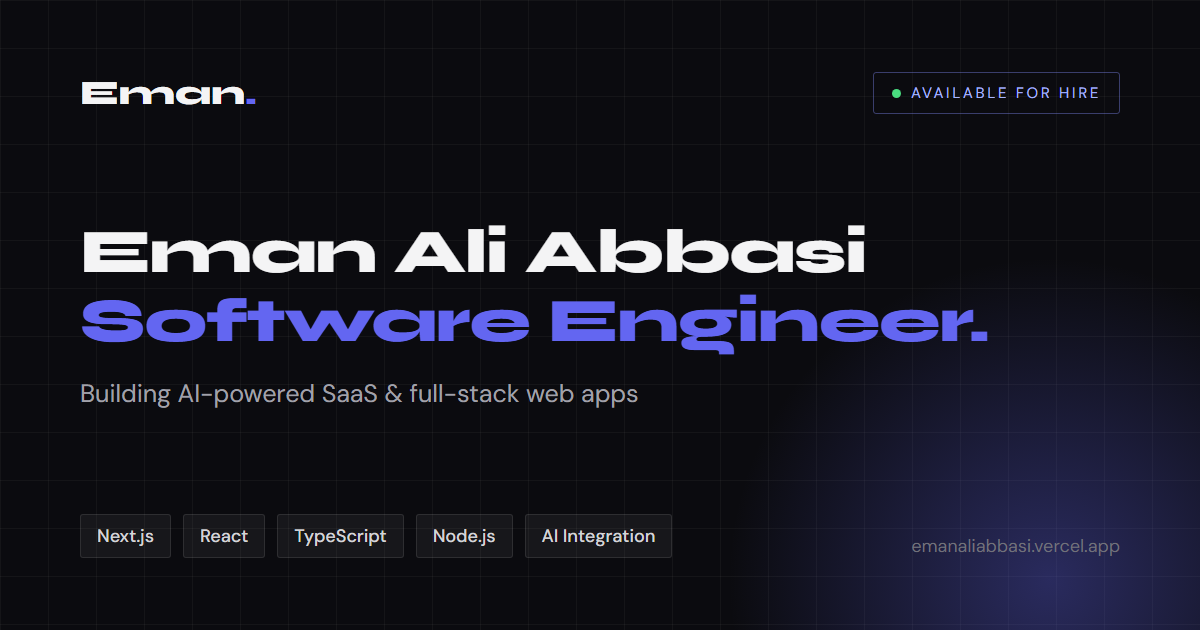
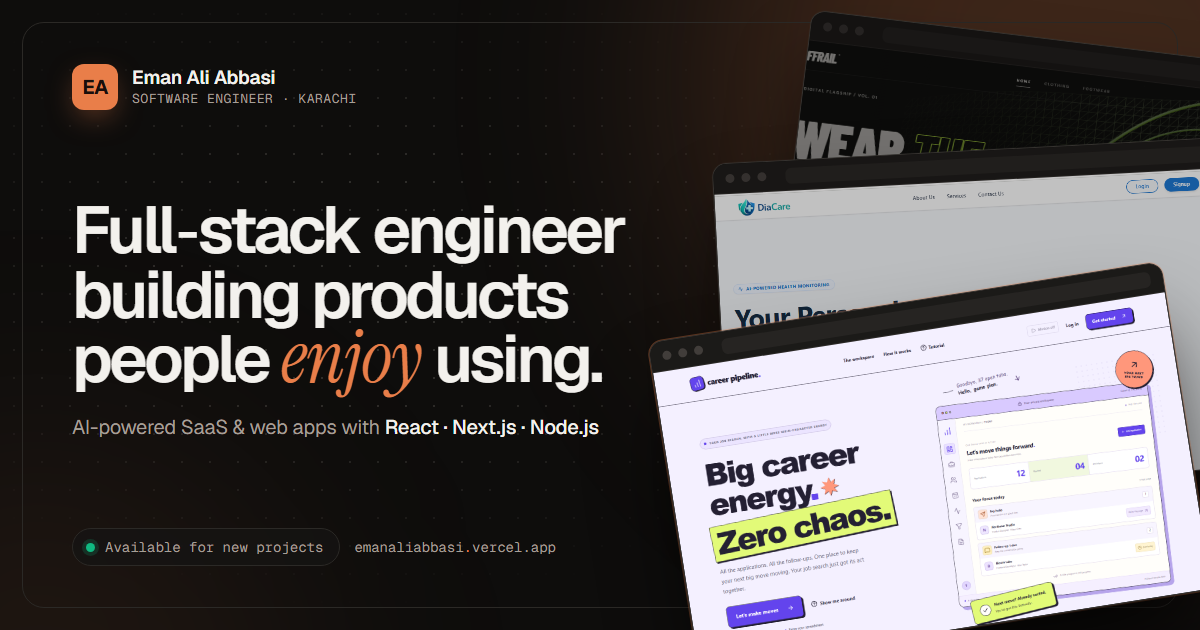
Update portfolio metadata and enhance OG image for improved presentation

diff --git a/app/layout.tsx b/app/layout.tsx
@@ -21,7 +21,7 @@ export const metadata: Metadata = {
   metadataBase: new URL("https://emanaliabbasi.vercel.app"),
   title: "Eman Ali Abbasi — Software Engineer & Full-Stack Developer",
   description:
-    "Software Engineer building AI-powered SaaS and full-stack web apps with React, Next.js, TypeScript and Node.js. Currently at SOCByte, Karachi.",
+    "Software Engineer in Karachi building AI-powered SaaS and full-stack web apps with React, Next.js, TypeScript and Node.js. Explore my projects and CV.",
   alternates: {
     canonical: "/",
   },
@@ -42,14 +42,14 @@ export const metadata: Metadata = {
     url: "/",
     title: "Eman Ali Abbasi — Software Engineer & Full-Stack Developer",
     description:
-      "Software Engineer specializing in React.js, Next.js, TypeScript, and full-stack development. Building production-grade platforms at SOCByte.",
+      "Full-stack engineer building AI-powered SaaS and web apps people enjoy using. React, Next.js, TypeScript and Node.js. Currently at SOCByte, Karachi.",
     siteName: "Eman Ali Abbasi Portfolio",
     images: [
       {
-        url: "/og-image.png",
+        url: "/og-image.png?v=2",
         width: 1200,
         height: 630,
-        alt: "Eman Ali Abbasi — Software Engineer building AI-powered SaaS and full-stack web apps",
+        alt: "Eman Ali Abbasi — Full-stack engineer building products people enjoy using, shown beside Career Pipeline, DiaCare and OFFRAIL project screenshots",
       },
     ],
   },
@@ -57,8 +57,8 @@ export const metadata: Metadata = {
     card: "summary_large_image",
     title: "Eman Ali Abbasi — Software Engineer",
     description:
-      "Software Engineer building AI-powered SaaS and full-stack web apps with React, Next.js, TypeScript and Node.js.",
-    images: ["/og-image.png"],
+      "Software Engineer building AI-powered SaaS and full-stack web apps with React, Next.js, TypeScript and Node.js. See my projects, experience and CV.",
+    images: ["/og-image.png?v=2"],
   },
 };
 
